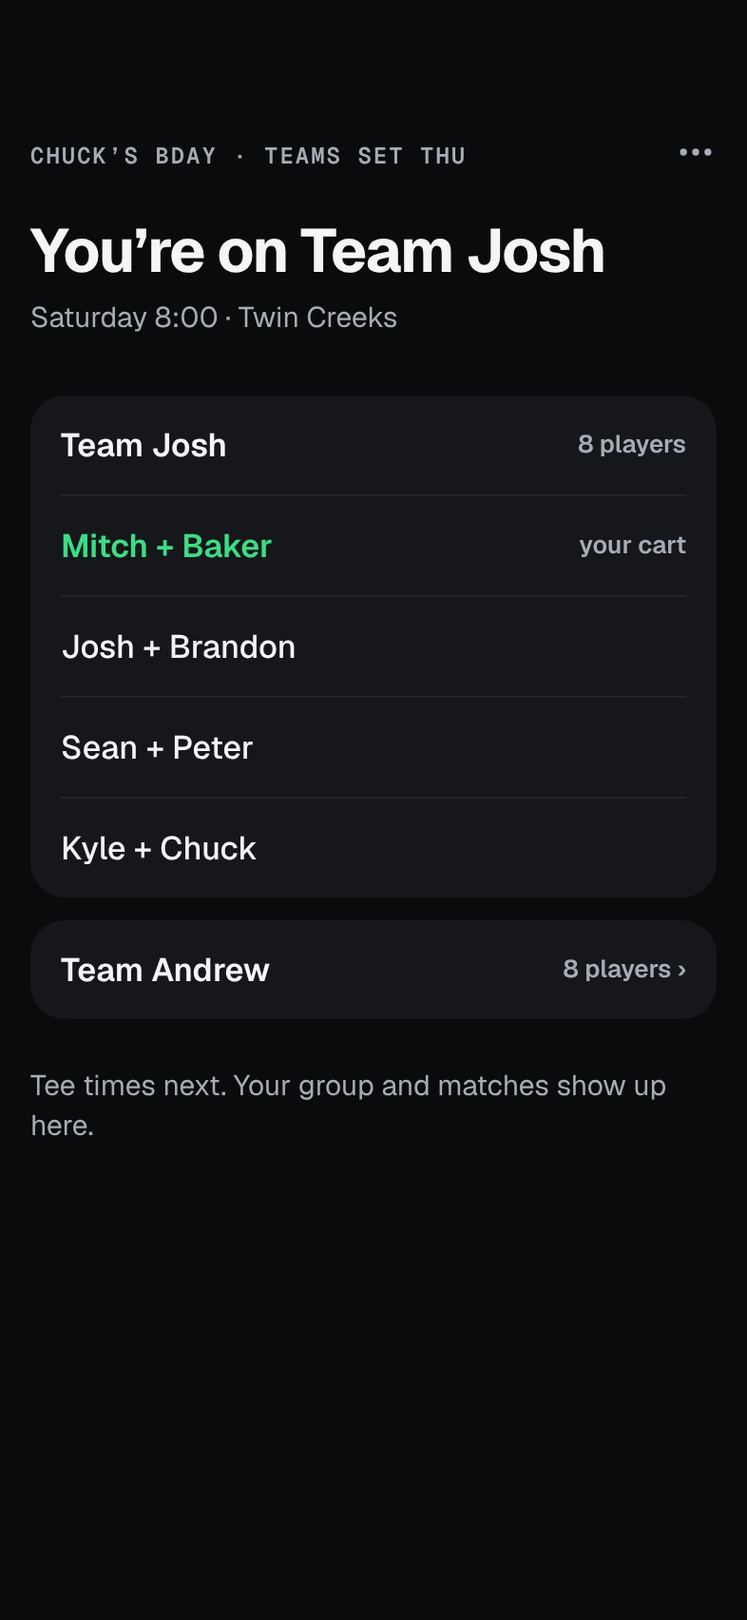
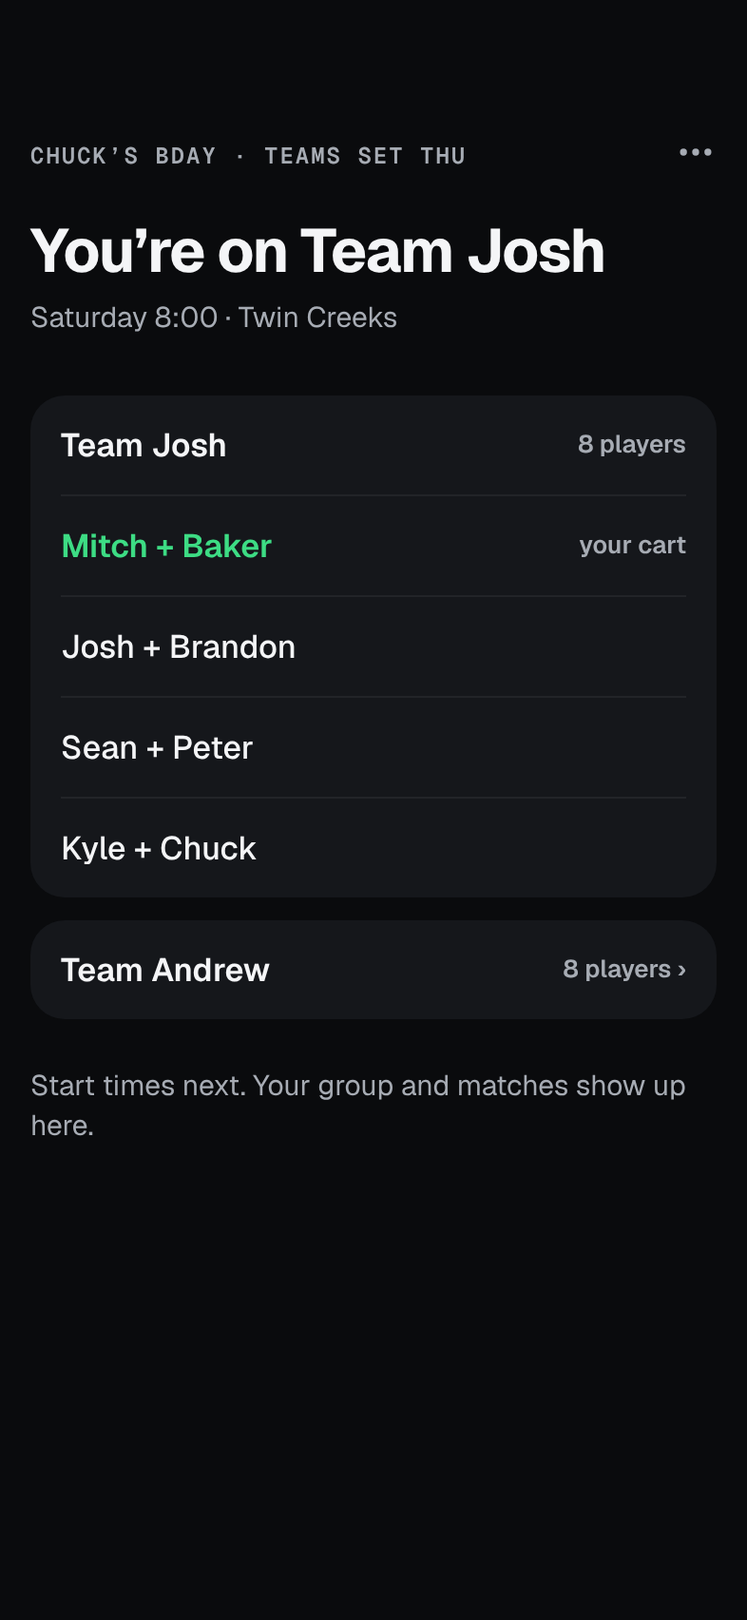
Lobby: drop Can't make it, say start time (owner edit)
Claude-Session: https://claude.ai/code/session_01E1LafE2AXSwC6Gn1hLLUNX

Changed region(s): [[0.0305, 0.6532, 0.916, 0.6843]]

diff --git a/docs/design/lobby-council/lobby-screens.html b/docs/design/lobby-council/lobby-screens.html
@@ -79,7 +79,7 @@ const roundCard = (line2 = 'Twin Creeks · Team Ryder Cup · 16 players') => `<d
 const sv=(d)=>`<svg width="24" height="24" viewBox="0 0 24 24" fill="none" stroke="currentColor" stroke-width="2" stroke-linecap="round" stroke-linejoin="round" aria-hidden="true">${d}</svg>`;
 const IC={flag:sv('<path d="M6 21V4h11l-2 4 2 4H6"/>'),rings:sv('<circle cx="8" cy="12" r="4"/><circle cx="16" cy="12" r="4"/>'),list:sv('<path d="M4 7h16M4 12h11M4 17h7"/>'),grid:sv('<rect x="4" y="4" width="16" height="16" rx="2"/><path d="M4 10h16M4 15h16M10 4v16M15 4v16"/>'),l:sv('<path d="M15 6l-6 6 6 6"/>'),r:sv('<path d="M9 6l6 6-6 6"/>'),dots:'<svg width="22" height="22" viewBox="0 0 24 24" fill="currentColor" aria-hidden="true"><circle cx="5" cy="12" r="2"/><circle cx="12" cy="12" r="2"/><circle cx="19" cy="12" r="2"/></svg>'};
 const tabs = `<nav class="tabs"><div class="cur">${IC.flag}</div><div>${IC.rings}</div><div>${IC.list}</div><div>${IC.grid}</div></nav>`;
-const NAMES = [['8:00 tee time', ['Andrew', 'Alex', 'Josh', 'Brandon']], ['8:10 tee time', ['Ant', 'Steve', 'Joseph', 'Jay']], ['8:20 tee time', ['Sean', 'Baker', 'Mitch', 'Peter']]];
+const NAMES = [['8:00 start time', ['Andrew', 'Alex', 'Josh', 'Brandon']], ['8:10 start time', ['Ant', 'Steve', 'Joseph', 'Jay']], ['8:20 start time', ['Sean', 'Baker', 'Mitch', 'Peter']]];
 const enterBar = `<div style="display:flex;align-items:center;height:54px"><b style="font-size:32px;letter-spacing:-.8px;flex:1">Hole 4 <span class="m" style="font-size:17px;font-weight:500">Par 4</span></b><span style="width:44px;height:44px;display:grid;place-items:center">${IC.l}</span><span style="width:44px;height:44px;display:grid;place-items:center">${IC.r}</span><span class="m" style="width:44px;height:44px;display:grid;place-items:center">${IC.dots}</span></div>`;
 const lobbyCard = () => `<div class="card" style="display:flex;flex-direction:column;gap:2px">
   <span class="lbl">Sat Nov 9 · Twin Creeks</span>
@@ -101,7 +101,7 @@ const V = {
   landing: () => `<div class="pg">${hdr()}
     <p class="lbl" style="margin:24px 0 8px">Chuck’s Bday · Andrew invited you</p>
     <h1 class="h1">You’re on the list for Saturday</h1>
-    <p class="p" style="margin-top:10px">Join now. Teams and tee times come later and show up on your phone.</p>
+    <p class="p" style="margin-top:10px">Join now. Teams and start times come later and show up on your phone.</p>
     <div style="margin-top:22px">${lobbyCard()}</div>
     <div class="flex"></div>
     <p class="s m" style="margin:0 0 12px">No account. About a minute: pick your name, then add Golf Board to your home screen.</p>
@@ -118,7 +118,7 @@ const V = {
   welcome: () => `<div class="pg">${hdr()}
     <p class="lbl you" style="margin:24px 0 8px">Chuck’s Bday · you’re in</p>
     <h1 class="h1">See you Saturday, Baker</h1>
-    <p class="p" style="margin-top:10px">Andrew drafts the teams and sets tee times before then. Open Golf Board any time to see them.</p>
+    <p class="p" style="margin-top:10px">Andrew drafts the teams and sets start times before then. Open Golf Board any time to see them.</p>
     <div class="flex"></div>
     <p class="s m" style="margin:0 0 12px">On Saturday, just tap Golf Board on your home screen. No link needed.</p>
     <button class="pri">See who’s playing</button>
@@ -129,7 +129,7 @@ const V = {
     <p class="s m" style="margin-top:6px">Team Ryder Cup · 16 players</p>
     ${how}
     <p class="lbl" style="margin:16px 0 6px">Coming up</p>
-    <div class="card" style="padding:0 16px">${stat('Teams', 'After Andrew’s draft')}${stat('Your tee time and matches', 'After the draft')}</div>
+    <div class="card" style="padding:0 16px">${stat('Teams', 'After Andrew’s draft')}${stat('Your start time and matches', 'After the draft')}</div>
     <p class="lbl" style="margin:20px 0 6px">Who’s playing</p>
     ${players()}
     <div class="flex"></div>
@@ -146,7 +146,7 @@ const V = {
       <div class="row"><b style="font-weight:500">Kyle + Chuck</b></div>
     </div>
     <div class="card" style="padding:0 16px;margin-top:12px"><div class="row"><b>Team Andrew</b><span class="t">8 players ›</span></div></div>
-    <p class="s m" style="margin:24px 0 0">Tee times next. Your group and matches show up here.</p>
+    <p class="s m" style="margin:24px 0 0">Start times next. Your group and matches show up here.</p>
     <div class="flex"></div>
   </div>`,
   teetimes: () => `<div class="pg" style="padding-top:62px">
@@ -164,8 +164,8 @@ const V = {
   </div>`,
   satwait: () => `<div class="pg" style="padding-top:62px">${phdr()}
     <p class="lbl" style="margin:12px 0 6px">Saturday · 7:40 · Team Josh</p>
-    <h1 class="h1">Andrew or Josh is setting tee times</h1>
-    <p class="p" style="margin-top:10px">Teams are set. Keep this open: scoring opens the moment tee times are in.</p>
+    <h1 class="h1">Andrew or Josh is setting start times</h1>
+    <p class="p" style="margin-top:10px">Teams are set. Keep this open: scoring opens the moment start times are in.</p>
     <div class="flex"></div>
     <p class="s m" style="margin:0 0 8px">Running late? Give them a nudge.</p>
     <button class="sec">Text Andrew</button>
@@ -175,7 +175,7 @@ const V = {
     <p class="s m" style="margin-top:6px">Team Ryder Cup · 16 players</p>
     <div class="card" style="margin-top:14px;display:flex;align-items:center;gap:10px;padding:12px 16px"><span class="warn-dot"></span><span class="s">Andrew moved the start to 9:10 (was 8:00).</span></div>
     <p class="lbl" style="margin:16px 0 6px">Coming up</p>
-    <div class="card" style="padding:0 16px">${stat('Teams', 'After Andrew’s draft')}${stat('Your tee time and matches', 'After the draft')}</div>
+    <div class="card" style="padding:0 16px">${stat('Teams', 'After Andrew’s draft')}${stat('Your start time and matches', 'After the draft')}</div>
     <div class="flex"></div>
   </div>`,
   home: () => `<div class="pg" style="padding-top:62px">
@@ -184,25 +184,15 @@ const V = {
     <div class="card" style="display:flex;flex-direction:column;gap:2px">
       <span class="lbl">Sat Nov 9 · Twin Creeks</span>
       <span style="font-size:17px;line-height:24px;font-weight:600">Chuck’s Bday</span>
-      <span class="s m">You’re on Team Josh · tee times not set yet</span>
+      <span class="s m">You’re on Team Josh · start times not set yet</span>
       <button class="sec" style="margin-top:14px">Open</button>
     </div>
     <p class="lbl" style="margin:24px 0 6px">Recent rounds</p>
     <div class="card" style="padding:0 16px"><div class="row"><b>Bridlewood</b><span class="t">Oct 20 · 2nd</span></div><div class="row"><b>Twin Creeks</b><span class="t">Oct 16 · won</span></div></div>
     <div class="flex"></div>
   </div>`,
-  removed: () => V.home().replace('Baker</b>', 'Justin</b>').replace('>B<', '>J<').replace('You’re on Team Josh · tee times not set yet', 'Andrew gave your spot to Kyle.').replace('<button class="sec" style="margin-top:14px">Open</button>', '<button class="sec" style="margin-top:14px">Text Andrew</button>'),
-  calledoff: () => V.home().replace('You’re on Team Josh · tee times not set yet', 'Andrew called this off. Rain check?').replace('<span class="lbl">Sat Nov 9 · Twin Creeks</span>', '<span class="lbl" style="display:flex;align-items:center;gap:8px"><span class="warn-dot"></span>Called off · was Sat Nov 9</span>').replace('<button class="sec" style="margin-top:14px">Open</button>', '<button class="sec" style="margin-top:14px">Text Andrew</button>'),
-  cantmake: () => V.drafted() + sheet(`<h2 class="h1">Can’t make it Saturday?</h2>
-      <p class="s m" style="margin:8px 0 20px">Andrew gets a note to find a sub. Until he does, Team Josh is a player short. You can take it back until then.</p>
-      <button class="pri">I can’t make it</button>
-      <button class="sec" style="margin-top:8px">Cancel</button>`),
-  cantmade: () => `<div class="pg" style="padding-top:62px">${phdr()}
-    <h1 class="h1" style="margin-top:12px">Saturday · 8:00 at Twin Creeks</h1>
-    <p class="s m" style="margin-top:6px">Team Josh · Team Ryder Cup</p>
-    <div class="card" style="margin-top:14px;display:flex;flex-direction:column;gap:10px"><span class="s">You told Andrew you can’t make it. He hasn’t found a sub yet.</span><button class="sec">I can make it after all</button></div>
-    <div class="flex"></div>
-  </div>`,
+  removed: () => V.home().replace('Baker</b>', 'Justin</b>').replace('>B<', '>J<').replace('You’re on Team Josh · start times not set yet', 'Andrew gave your spot to Kyle.').replace('<button class="sec" style="margin-top:14px">Open</button>', '<button class="sec" style="margin-top:14px">Text Andrew</button>'),
+  calledoff: () => V.home().replace('You’re on Team Josh · start times not set yet', 'Andrew called this off. Rain check?').replace('<span class="lbl">Sat Nov 9 · Twin Creeks</span>', '<span class="lbl" style="display:flex;align-items:center;gap:8px"><span class="warn-dot"></span>Called off · was Sat Nov 9</span>').replace('<button class="sec" style="margin-top:14px">Open</button>', '<button class="sec" style="margin-top:14px">Text Andrew</button>'),
   preview: () => `<div class="pg" style="padding-top:62px">
     <div class="top"><span class="lbl">Example round · 1 of 3</span><span class="m">Done</span></div>
     <h1 class="h1" style="margin-top:12px">After each hole, tap your scores</h1>
@@ -221,30 +211,27 @@ const V = {
     <button class="pri">Go to hole 1</button>
     <button class="gho" style="margin-top:4px">How today’s game works</button>
   </div>`,
-  cohost: () => V.early().replace('<span class="lbl">Chuck’s Bday</span>', '<span class="lbl">Chuck’s Bday · you’re co-host</span>').replace('${how}', '') .replace('<p class="lbl" style="margin:16px 0 6px">Coming up</p>', '<div class="card" style="margin-top:14px;padding:0 16px"><div class="row"><b>Host</b><span class="t">draft, tee times, players ›</span></div></div><p class="lbl" style="margin:16px 0 6px">Coming up</p>'),
+  cohost: () => V.early().replace('<span class="lbl">Chuck’s Bday</span>', '<span class="lbl">Chuck’s Bday · you’re co-host</span>').replace('${how}', '') .replace('<p class="lbl" style="margin:16px 0 6px">Coming up</p>', '<div class="card" style="margin-top:14px;padding:0 16px"><div class="row"><b>Host</b><span class="t">draft, start times, players ›</span></div></div><p class="lbl" style="margin:16px 0 6px">Coming up</p>'),
   // ── organizer ──
   setupchoice: () => `<div class="pg" style="padding-top:56px">
     <p class="lbl">New round · Chuck’s Bday</p>
     <h1 class="h1" style="margin-top:6px">16 players added. Invite them now?</h1>
-    <p class="p" style="margin-top:10px">Everyone can join today. You draft and set tee times later.</p>
+    <p class="p" style="margin-top:10px">Everyone can join today. You draft and set start times later.</p>
     <div class="flex"></div>
     <button class="pri">Invite now, draft later</button>
-    <button class="sec" style="margin-top:8px">Draft and tee times first</button>
+    <button class="sec" style="margin-top:8px">Draft and start times first</button>
   </div>`,
   hostearly: () => `<div class="pg" style="padding-top:62px">${hhdr()}
-    <h1 class="h1" style="margin-top:12px">9 of 15 have Golf Board</h1>
-    <p class="s m" style="margin-top:6px">1 out · Team Ryder Cup needs 16</p>
-    <p class="lbl" style="margin:16px 0 6px">Needs you</p>
-    <div class="card" style="padding:0 16px">${warnRow('Justin’s out', 'Replace, or draft with an open spot', 'Replace')}</div>
+    <h1 class="h1" style="margin-top:12px">10 of 16 have Golf Board</h1>
+    <p class="s m" style="margin-top:6px">Saturday 8:00 · Twin Creeks · Team Ryder Cup</p>
     <p class="lbl" style="margin:16px 0 6px">Not in the app yet · 6 people</p>
     <div class="card" style="padding:0 16px">${person('Peter', 'picked a name in Safari')}${person('Jay', 'picked a name in Safari')}${person('Chuck', 'not yet')}${person('Elijah', 'not yet')}${person('Marcus', 'not yet')}${person('Steve', 'not yet')}</div>
-    <div class="card" style="padding:0 16px;margin-top:12px"><div class="row"><b>Co-host</b><span class="t">Josh ›</span></div></div>
+    <div class="card" style="padding:0 16px;margin-top:12px"><div class="row"><b>Players</b><span class="t">replace a player ›</span></div><div class="row"><b>Co-host</b><span class="t">Josh ›</span></div></div>
     <div class="flex"></div>
-    <p class="s m" style="margin:0 0 8px">No sub yet? Draft anyway: “Justin’s spot (open)” goes in a cart, and a sub takes it later.</p>
     <button class="pri">Start the draft</button>
   </div>`,
   hostreplace: () => V.hostearly() + sheet(`<h2 class="h1">Replace Justin</h2>
-      <p class="s m" style="margin:8px 0 14px">The sub takes Justin’s spot. Justin’s phone is told.</p>
+      <p class="s m" style="margin:8px 0 14px">The sub takes Justin’s spot, with his team and cart. Justin’s phone is told.</p>
       ${field('Sub’s first and last name')}
       <div class="card" style="padding:0 16px;margin-top:10px;background:var(--surface-3)"><div class="row"><b>Kyle Test</b><span class="t">played Oct 16</span></div></div>
       <button class="pri" style="margin-top:16px">Replace with Kyle</button>
@@ -257,12 +244,12 @@ const V = {
   hostdrafted: () => `<div class="pg" style="padding-top:62px">${hhdr()}
     <h1 class="h1" style="margin-top:12px">Teams are set</h1>
     <p class="s m" style="margin-top:6px">Team Josh vs Team Andrew · 16 of 16 have Golf Board</p>
-    <div class="card" style="padding:0 16px;margin-top:16px">${stat('Invite', 'Everyone’s in', true)}${stat('Draft', 'Done Thu', true)}${stat('Tee times', 'Next')}</div>
+    <div class="card" style="padding:0 16px;margin-top:16px">${stat('Invite', 'Everyone’s in', true)}${stat('Draft', 'Done Thu', true)}${stat('Start times', 'Next')}</div>
     <div class="card" style="padding:0 16px;margin-top:12px"><div class="row"><b>Co-host</b><span class="t">Josh ›</span></div><div class="row"><b>Round</b><span class="t">date, course, call it off ›</span></div></div>
     <div class="flex"></div>
     <p class="s m" style="margin:0 0 8px">Phones show the teams when they open Golf Board. Tell the group now.</p>
     <button class="pri">Share the teams</button>
-    <button class="sec" style="margin-top:8px">Set tee times</button>
+    <button class="sec" style="margin-top:8px">Set start times</button>
   </div>`,
   hostoptions: () => V.hostdrafted() + sheet(`<h2 class="h1">Round</h2>
       <div class="card" style="padding:0 16px;margin-top:14px;background:var(--surface-3)">
@@ -290,8 +277,8 @@ const V = {
     <h1 class="h1" style="margin-top:12px">Scoring is open</h1>
     <p class="s m" style="margin-top:6px">Opened by itself at 7:30 · first tee 8:00</p>
     <p class="lbl" style="margin:16px 0 6px">Needs you</p>
-    <div class="card" style="padding:0 16px">${warnRow('Justin isn’t here', 'Marked 7:52', 'Replace')}${warnRow('Open spot', 'Kyle + Chuck’s cart', 'Fill')}</div>
-    <div class="card" style="padding:0 16px;margin-top:16px">${stat('Invite', '16 of 16 have Golf Board', true)}${stat('Draft', 'Team Josh vs Team Andrew', true)}${stat('Tee times', '8:00 · 8:10 · 8:20 · 8:30', true)}</div>
+    <div class="card" style="padding:0 16px">${warnRow('Justin isn’t here', 'Marked 7:52', 'Replace')}</div>
+    <div class="card" style="padding:0 16px;margin-top:16px">${stat('Invite', '16 of 16 have Golf Board', true)}${stat('Draft', 'Team Josh vs Team Andrew', true)}${stat('Start times', '8:00 · 8:10 · 8:20 · 8:30', true)}</div>
     <div class="flex"></div>
   </div>`,
   noshow: () => V.hostday() + sheet(`<h2 class="h1">Justin isn’t here</h2>
@@ -299,15 +286,15 @@ const V = {
       <button class="pri">Replace with a sub</button>
       <button class="sec" style="margin-top:8px">Play without him</button>`),
   hostnotimes: () => `<div class="pg" style="padding-top:62px">${hhdr('host · Sat 7:30')}
-    <h1 class="h1" style="margin-top:12px">Scoring is waiting on tee times</h1>
-    <p class="p" style="margin-top:10px">Teams are set. 9 players have the app open now. Scoring opens the moment you save tee times.</p>
+    <h1 class="h1" style="margin-top:12px">Scoring is waiting on start times</h1>
+    <p class="p" style="margin-top:10px">Teams are set. 9 players have the app open now. Scoring opens the moment you save start times.</p>
     <div class="flex"></div>
-    <button class="pri">Set tee times</button>
+    <button class="pri">Set start times</button>
   </div>`,
   hostearlyday: () => `<div class="pg" style="padding-top:62px">${hhdr('host · Sat 7:10')}
     <h1 class="h1" style="margin-top:12px">Scoring opens at 7:30</h1>
-    <p class="p" style="margin-top:10px">By itself, 30 minutes before the 8:00 tee time.</p>
-    <div class="card" style="padding:0 16px;margin-top:16px">${stat('Draft', 'Team Josh vs Team Andrew', true)}${stat('Tee times', '8:00 · 8:10 · 8:20 · 8:30', true)}</div>
+    <p class="p" style="margin-top:10px">By itself, 30 minutes before the 8:00 start time.</p>
+    <div class="card" style="padding:0 16px;margin-top:16px">${stat('Draft', 'Team Josh vs Team Andrew', true)}${stat('Start times', '8:00 · 8:10 · 8:20 · 8:30', true)}</div>
     <div class="flex"></div>
     <button class="sec">Open scoring now</button>
   </div>`,

diff --git a/docs/design/lobby-council/flow-map.html b/docs/design/lobby-council/flow-map.html
@@ -18,24 +18,24 @@ body{margin:0;background:#0a0b0d;color:#f4f5f7;font-family:Geist,system-ui,sans-
 </style></head><body><div class="wrap" id="w"></div>
 <script>
 const R = (new URLSearchParams(location.search).get('r')) || 'r1';
-const N = { landing: '01-landing', who: '02-who', welcome: '03-welcome', early: '04-early', drafted: '05-drafted', teetimes: '06-teetimes', satwait: '07-satwait', changed: '08-changed', home: '09-home', removed: '10-removed', calledoff: '11-calledoff', cantmake: '12-cantmake', cantmade: '13-cantmade', preview: '14-preview', gameday: '15-gameday', cohost: '16-cohost', setupchoice: '17-setupchoice', hostearly: '18-hostearly', hostreplace: '19-hostreplace', replaceshare: '20-replaceshare', hostdrafted: '21-hostdrafted', hostoptions: '22-hostoptions', calloff: '23-calloff', removeconfirm: '24-removeconfirm', hostchanged: '25-hostchanged', hostearlyday: '26-hostearlyday', openconfirm: '27-openconfirm', hostnotimes: '28-hostnotimes', hostday: '29-hostday', noshow: '30-noshow', confirm: 'o-confirm', guide: 'o-guide', hasapp: 'o-hasapp', inapp: 'o-inapp', back: 'o-back' };
-const T = { landing: '1 Lobby landing', who: '2 Which one are you?', welcome: '3 See you Saturday', early: '4 Before the draft', drafted: '5 Teams are set', teetimes: '6 Tee times are set', satwait: '7 Saturday: tee times coming', changed: '8 Changed (note)', home: '9 Home · coming up', removed: '10 Spot given to a sub', calledoff: '11 Called off', cantmake: '12 Can’t make it?', cantmade: '13 Took it back?', preview: '14 Example round', gameday: '15 Scoring is open', cohost: '16 Josh: co-host', setupchoice: '17 Invite now?', hostearly: '18 Host · draft or replace', hostreplace: '19 Replace Justin', replaceshare: '20 Send Kyle the link', hostdrafted: '21 Host · teams set', hostoptions: '22 Round options', calloff: '23 Call it off?', removeconfirm: '24 Remove after draft?', hostchanged: '25 Tell the group', hostearlyday: '26 Host · Sat, before 7:30', openconfirm: '27 Open scoring now?', hostnotimes: '28 Host · waiting on tee times', hostday: '29 Host · Sat, scoring open', noshow: '30 No-show: sub or play without', confirm: 'You’re Baker? (onb 4)', guide: 'Add to home screen (onb 5)', hasapp: 'You have the app (onb 12)', inapp: 'Open in Safari (onb 13)', back: 'Welcome back (onb 11)' };
+const N = { landing: '01-landing', who: '02-who', welcome: '03-welcome', early: '04-early', drafted: '05-drafted', teetimes: '06-teetimes', satwait: '07-satwait', changed: '08-changed', home: '09-home', removed: '10-removed', calledoff: '11-calledoff', preview: '12-preview', gameday: '13-gameday', cohost: '14-cohost', setupchoice: '15-setupchoice', hostearly: '16-hostearly', hostreplace: '17-hostreplace', replaceshare: '18-replaceshare', hostdrafted: '19-hostdrafted', hostoptions: '20-hostoptions', calloff: '21-calloff', removeconfirm: '22-removeconfirm', hostchanged: '23-hostchanged', hostearlyday: '24-hostearlyday', openconfirm: '25-openconfirm', hostnotimes: '26-hostnotimes', hostday: '27-hostday', noshow: '28-noshow', confirm: 'o-confirm', guide: 'o-guide', hasapp: 'o-hasapp', inapp: 'o-inapp', back: 'o-back' };
+const T = { landing: '1 Lobby landing', who: '2 Which one are you?', welcome: '3 See you Saturday', early: '4 Before the draft', drafted: '5 Teams are set', teetimes: '6 Start times are set', satwait: '7 Saturday: start times coming', changed: '8 Changed (note)', home: '9 Home · coming up', removed: '10 Spot given to a sub', calledoff: '11 Called off', preview: '12 Example round', gameday: '13 Scoring is open', cohost: '14 Josh: co-host', setupchoice: '15 Invite now?', hostearly: '16 Host · before the draft', hostreplace: '17 Replace a player', replaceshare: '18 Send the sub the link', hostdrafted: '19 Host · teams set', hostoptions: '20 Round options', calloff: '21 Call it off?', removeconfirm: '22 Remove after draft?', hostchanged: '23 Tell the group', hostearlyday: '24 Host · Sat, before 7:30', openconfirm: '25 Open scoring now?', hostnotimes: '26 Host · waiting on start times', hostday: '27 Host · Sat, scoring open', noshow: '28 No-show: sub or play without', confirm: 'You’re Baker? (onb 4)', guide: 'Add to home screen (onb 5)', hasapp: 'You have the app (onb 12)', inapp: 'Open in Safari (onb 13)', back: 'Welcome back (onb 11)' };
 const scr = (k) => `<div class="node"><img src="screens/${N[k]}.png"><span>${T[k]}</span></div>`;
 const act = (t) => `<div class="act">${t}</div>`, sys = (t) => `<div class="act sys">${t}</div>`, go = (t) => `<div class="go">${t}</div>`;
 const L = [
-  ['Organizer · Wednesday', 'Has the 16 names; teams and tee times later.', [scr('setupchoice'), act('Invite now, draft later'), sys('Share → Partiful / group text'), scr('hostearly'), go('Lobby open')]],
+  ['Organizer · Wednesday', 'Has the 16 names; teams and start times later.', [scr('setupchoice'), act('Invite now, draft later'), sys('Share → Partiful / group text'), scr('hostearly'), go('Lobby open')]],
   ['New player · Wed–Fri evening', 'Never used it; taps the Partiful link.', [sys('Partiful’s browser → Open in Safari first'), scr('landing'), scr('who'), scr('confirm'), scr('guide'), act('Adds it, opens the icon'), scr('welcome'), scr('early'), go('Joined')]],
   ['Curious', 'Wants to see it without a real round.', [scr('welcome'), act('Show me an example round'), scr('preview'), sys('3 pages, made-up names, nothing saved'), scr('early')]],
   ['Returning · has the app', 'Played before, has the icon.', [scr('hasapp'), act('Opens the icon'), scr('home'), act('Open'), scr('early'), go('Joined as you (024)')]],
   ['Joined in Safari only', 'Picked a name, never added the app.', [sys('Host: “picked a name in Safari” · Share'), sys('Opens the link again'), scr('back'), scr('guide'), go('In the app')]],
-  ['Dropout before the draft', 'Justin can’t make it Thursday; the game needs 16.', [act('⋯ → Can’t make it'), scr('cantmake'), scr('cantmade'), scr('hostearly'), act('Replace (or draft with an open spot)'), scr('hostreplace'), scr('replaceshare'), scr('removed'), go('Kyle joins')]],
+  ['Replace a player', 'Someone drops out (sorted off the app); Andrew swaps in a sub.', [scr('hostearly'), act('Players → Replace'), scr('hostreplace'), scr('replaceshare'), scr('removed'), go('Kyle joins with the link')]],
   ['Draft day (Thu)', 'Andrew or Josh drafts; then tells everyone.', [scr('hostearly'), act('Start the draft (existing snake draft)'), scr('hostdrafted'), act('Share the teams'), sys('Players open the icon'), scr('drafted'), go('“You’re on Team Josh”')]],
   ['Co-host (Josh)', 'Can do everything Andrew can.', [scr('cohost'), act('Host'), sys('Same host screens')]],
   ['Plans change', 'Start time, course, date; or a rain-out.', [scr('hostoptions'), act('Date and start time'), scr('hostchanged'), act('Tell the group'), scr('changed'), act('or Call it off'), scr('calloff'), scr('calledoff')]],
-  ['Tee times (Fri)', 'Andrew or Josh sets them.', [scr('hostdrafted'), act('Set tee times (existing)'), sys('Players open the icon'), scr('teetimes'), go('8:20 with Mitch · 3 matches')]],
-  ['Saturday · not ready', 'Opens at 7:40; tee times still missing.', [scr('satwait'), act('Text Andrew'), sys('Tee times saved → opens at once'), scr('gameday'), go('Enter')]],
+  ['Start times (Fri)', 'Andrew or Josh sets them.', [scr('hostdrafted'), act('Set start times (existing)'), sys('Players open the icon'), scr('teetimes'), go('8:20 with Mitch · 3 matches')]],
+  ['Saturday · not ready', 'Opens at 7:40; start times still missing.', [scr('satwait'), act('Text Andrew'), sys('Start times saved → opens at once'), scr('gameday'), go('Enter')]],
   ['Saturday · organizer', 'Scoring opens itself at 7:30.', [scr('hostearlyday'), sys('or Open scoring now (day only)'), scr('openconfirm'), scr('hostday'), act('Marks Justin not here'), scr('noshow'), go('Sub, or Marcus plays alone')]],
-  ['Saturday · no tee times yet', 'Nothing can open until they exist.', [scr('hostnotimes'), act('Set tee times'), go('Scoring opens at once')]],
+  ['Saturday · no start times yet', 'Nothing can open until they exist.', [scr('hostnotimes'), act('Set start times'), go('Scoring opens at once')]],
   ['Remove after the draft', 'Would break the teams.', [scr('hostoptions'), scr('removeconfirm'), go('Replace instead (default)')]],
   ['Saturday · player', 'Scoring is open.', [act('Taps the icon'), scr('gameday'), act('Go to hole 1'), go('Enter')]],
   ['Spectator', 'Chuck’s family, a plus-one.', [scr('landing'), act('Not playing? Follow along'), sys('Board, read-only (onboarding Watching)'), go('Following')]],

diff --git a/docs/design/lobby-council/README.md b/docs/design/lobby-council/README.md
@@ -4,7 +4,7 @@ The organizer opens a round as soon as he has the names ("Invite now, draft late
 
 Four council rounds (Interaction · Visual · Product · Red): 6.5 · 7 · 7 · 6 → 8 · 8 · 8.5 · 7.5 → 9 · 8.5 · 9 · 8.5 → **9 · 9 · 9.5 · 8.5**.
 
-- `screens/`: the 30 final screens (`NN-name.png`), reused onboarding screens (`o-*.png`), light (`L-*`) and 120% text (`B-*`), `flow.png` (17 journeys).
+- `screens/`: the 28 final screens (Nov 6 owner edit: no “Can’t make it”; players see “start time”, never “tee time”) (`NN-name.png`), reused onboarding screens (`o-*.png`), light (`L-*`) and 120% text (`B-*`), `flow.png` (17 journeys).
 - `lobby-screens.html`: the mockup (`#{"s":"early"}` etc.; `"light":true`, `"big":true`).
 - `briefs/round1–4.md`: every decision, round by round.
 - On the App Screens canvas: page **Lobby · join days ahead (Nov 6)**.
